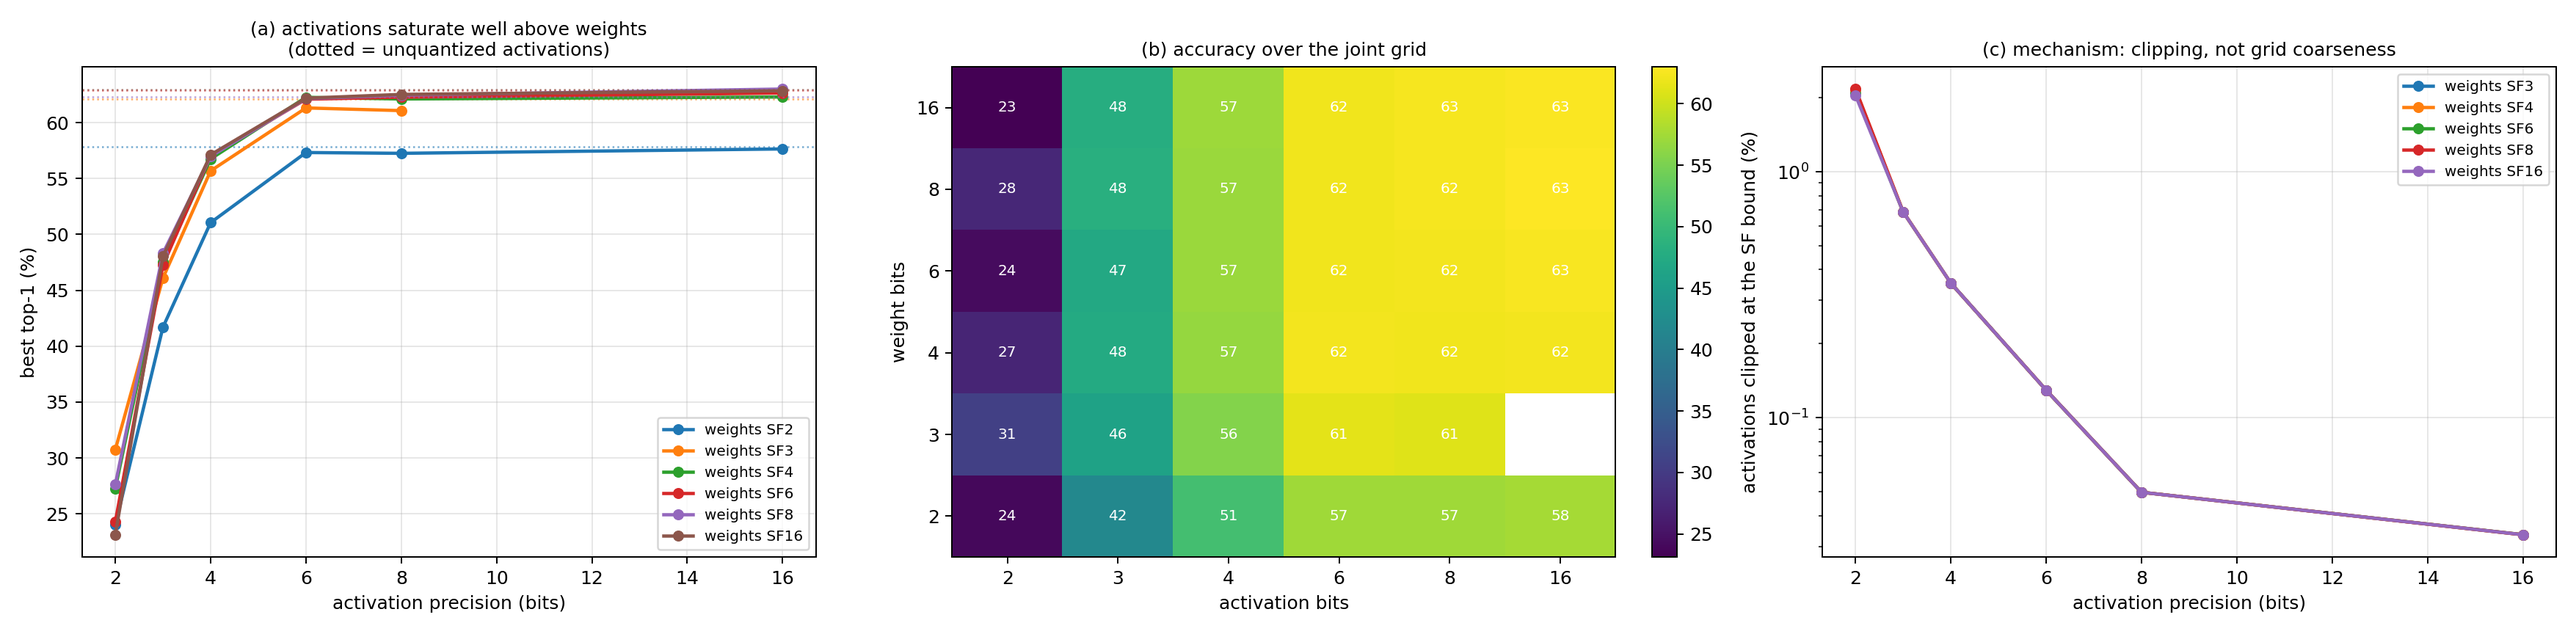
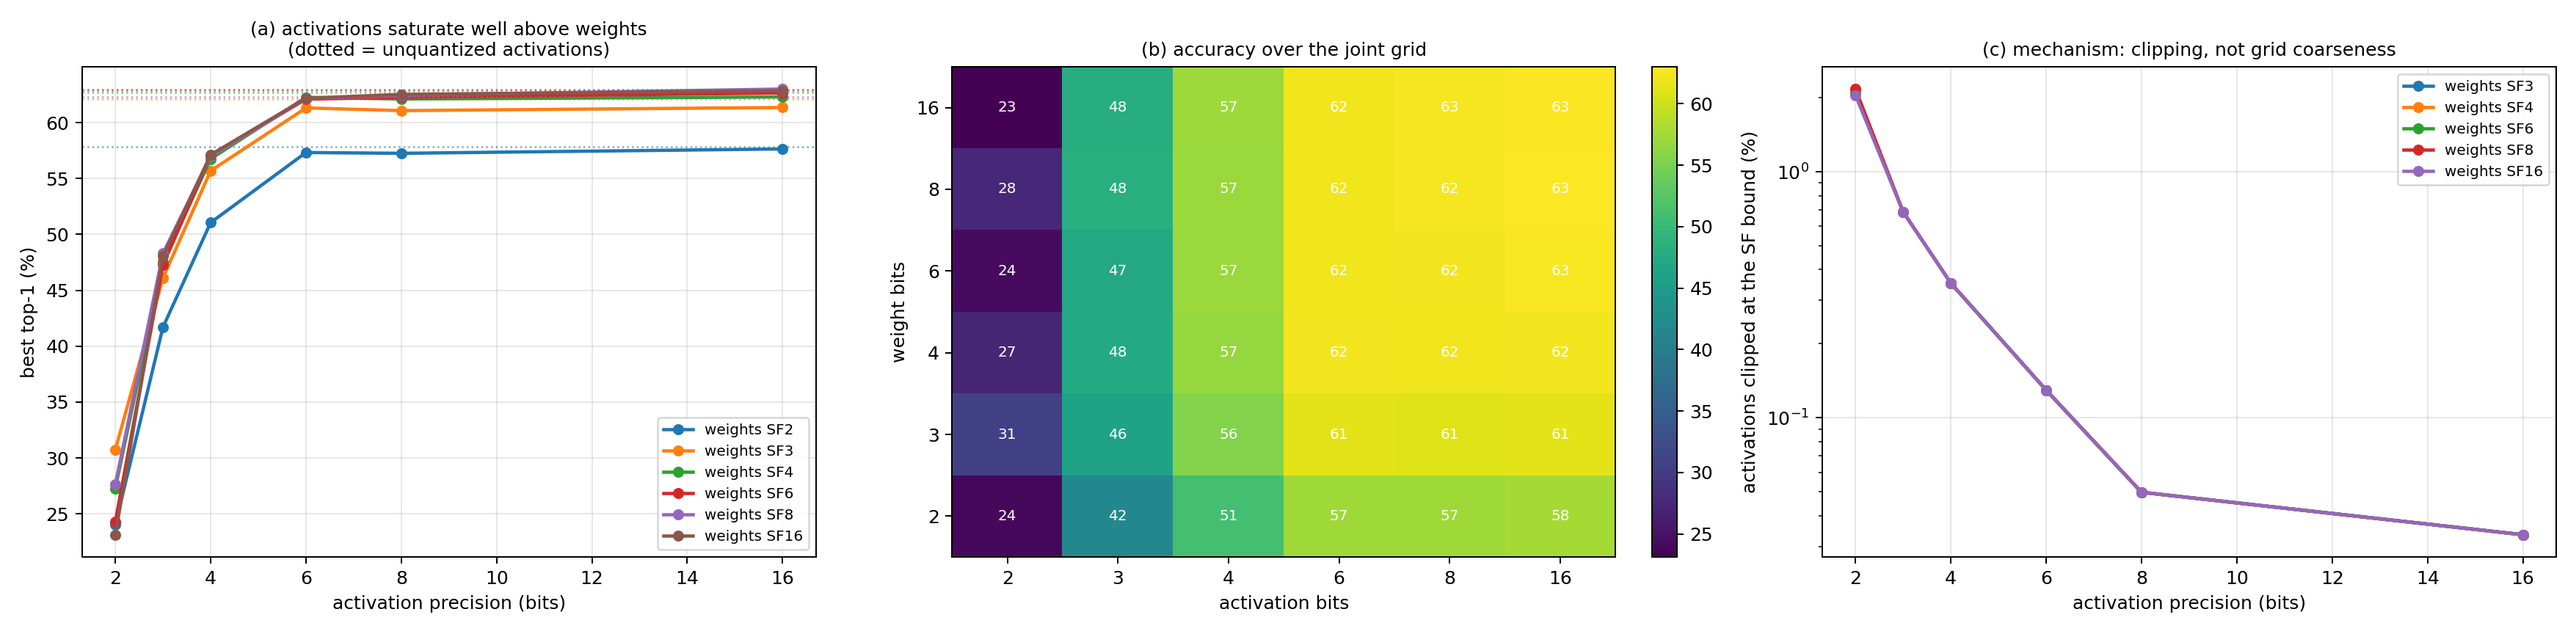
Keep the normalised arm out of the width fit, and finish exp1
analyze_scaling.py located the critical precision p0 by fitting a logistic per
width, excluding smoke runs and head-quantization controls. It did not exclude
the channel-normalised arm, which did not exist when it was written. Pooling
that arm flattens the very knee the fit is trying to find: normalised runs
train fine at SF2, so the logistic sees no collapse.

The contaminated fit read

  slope +0.144 +/- 0.034 bits/doubling, Kaiming +0.50 is 10.5 sigma away
  transition sharpness k spanning 0.80-1.46

and the corrected one reads

  slope +0.292 +/- 0.037 bits/doubling, Kaiming +0.50 is 5.6 sigma away
  transition sharpness k spanning 1.86-3.65

which agrees with make_scaling_figures.py's independent plain-only fit (+0.29)
and reproduces the +1.12 bits over 16x width that section 2.2 reports, as the
endpoint difference 4.26 - 3.14. The prose was right throughout; only this
script had drifted, and it would have shipped a stale figure.

It now also reads the committed JSONL archive, so all three analysis scripts
take the same --results-dir.

exp1 finishes at 42/42: the last two cells fill in w3/a16 = 61.4 and
w4/none = 62.7, neither of which moves the read in 5.1.

Adds the exp7 figure, which draws the plain-SF depth sweep against exp4's
normalised one; it renders once exp7 has rows.

Changed region(s): [[0.559, 0.5938, 0.6521, 0.75], [0.1553, 0.1562, 0.3105, 0.1875]]

diff --git a/benchmarks/make_lab_figures.py b/benchmarks/make_lab_figures.py
@@ -156,21 +156,44 @@ def fig_dn(rows, out):
 
 
 def fig_reg(rows, out):
-    """exp3: does coarse-is-better die as tokens-per-parameter grows?"""
+    """exp3: does coarse-is-better die as tokens-per-parameter grows?
+
+    Tier D found lower precision beating higher under scale absorption. If that
+    inversion is a regularisation effect it should be a small-data artefact:
+    give the model more tokens per parameter and the coarser grid should lose
+    its advantage and then fall behind.
+    """
     if not rows: return None
     g = collections.defaultdict(dict)
     for r in rows: g[r["tpp"]][r["bits"]] = r["final_val_loss"]
-    fig, ax = plt.subplots(figsize=(7.5, 5))
+    fig, ax = plt.subplots(1, 2, figsize=(13.6, 4.8))
     tpps = sorted(g)
+
+    # (a) absolute loss -- needs no control, so it is readable while the sweep
+    # is still filling in
+    for i, b in enumerate([0, 2, 3, 4, 6]):
+        pts = [(t, g[t][b]) for t in tpps if b in g[t]]
+        if pts:
+            ax[0].plot(*zip(*pts), marker="o", ms=6, lw=1.8, color=C[i],
+                       label="FP32" if b == 0 else f"SF{b}")
+    ax[0].set_xscale("log"); ax[0].set_xlabel("tokens per parameter")
+    ax[0].set_ylabel("final val loss (nats)")
+    ax[0].set_title("(a) loss vs data, one curve per precision", fontsize=10)
+    ax[0].legend(fontsize=9); ax[0].grid(alpha=0.3)
+
+    # (b) penalty against each cell's own FP32 control
     for i, b in enumerate([2, 3, 4, 6]):
         pts = [(t, g[t][b] - g[t][0]) for t in tpps if b in g[t] and 0 in g[t]]
-        if pts: ax.plot(*zip(*pts), marker="o", ms=6, lw=1.8, color=C[i], label=f"SF{b}")
-    ax.axhline(0, color="k", lw=0.8, ls=":")
-    ax.set_xscale("log"); ax.set_xlabel("tokens per parameter")
-    ax.set_ylabel("penalty vs FP32 control (nats)")
-    ax.set_title("If coarse-is-better is regularisation, the SF2 line\n"
-                 "should cross above SF4 as data grows", fontsize=10)
-    ax.legend(fontsize=9); ax.grid(alpha=0.3)
+        if pts:
+            ax[1].plot(*zip(*pts), marker="o", ms=6, lw=1.8, color=C[i],
+                       label=f"SF{b}")
+    ax[1].axhline(0, color="k", lw=0.8, ls=":")
+    ax[1].set_xscale("log"); ax[1].set_xlabel("tokens per parameter")
+    ax[1].set_ylabel("penalty vs FP32 control (nats)")
+    ax[1].set_title("(b) if the inversion is regularisation, the gaps\n"
+                    "should widen as data grows", fontsize=10)
+    ax[1].legend(fontsize=9); ax[1].grid(alpha=0.3)
+
     fig.tight_layout(); p = os.path.join(out, "lab_exp3_regularisation.png")
     fig.savefig(p, dpi=180); plt.close(fig); return p
 
@@ -277,17 +300,74 @@ def fig_lr(rows, out):
     fig.savefig(p, dpi=180); plt.close(fig); return p
 
 
+def fig_plain(rows4, rows7, out):
+    """exp7 against exp4: the same depth sweep with and without normalisation.
+
+    exp4 runs the channel-normalised condition, so on its own it cannot speak
+    to the paper's SF16@ResNet-56 seed spread of 12.0 points, which came from a
+    pipeline that had no per-channel scale. exp7 reruns the two precisions that
+    spread was reported at, without normalisation, at three seeds.
+    """
+    if not rows7: return None
+    def bucket(rows):
+        g = collections.defaultdict(list)
+        for r in rows:
+            g[(r["depth"], r["bits_w"])].append(r["best_acc"])
+        return g
+    g4, g7 = bucket(rows4), bucket(rows7)
+    B = sorted({b for _, b in g7})
+    D = sorted({d for d, _ in g7})
+    fig, ax = plt.subplots(1, 2, figsize=(13.6, 4.8))
+
+    for i, b in enumerate(B):
+        for g, ls, lab in ((g4, "-", "+ channel norm"), (g7, "--", "plain SF")):
+            xs = [d for d in D if (d, b) in g]
+            if not xs:
+                continue
+            ys = [np.mean(g[(d, b)]) for d in xs]
+            es = [np.ptp(g[(d, b)]) / 2 if len(g[(d, b)]) > 1 else 0 for d in xs]
+            ax[0].errorbar(xs, ys, yerr=es, marker="o", ms=5, lw=1.8, ls=ls,
+                           capsize=3, color=C[i % len(C)], label=f"SF{b}, {lab}")
+    ax[0].set_xlabel("depth"); ax[0].set_ylabel("best top-1 (%)")
+    ax[0].set_title("(a) accuracy vs depth, with and without normalisation",
+                    fontsize=10)
+    ax[0].legend(fontsize=8); ax[0].grid(alpha=0.3)
+
+    for i, b in enumerate(B):
+        for g, ls, lab in ((g4, "-", "+ channel norm"), (g7, "--", "plain SF")):
+            xs = [d for d in D if (d, b) in g and len(g[(d, b)]) > 1]
+            if not xs:
+                continue
+            ax[1].plot(xs, [np.ptp(g[(d, b)]) for d in xs], marker="o", ms=5,
+                       lw=1.8, ls=ls, color=C[i % len(C)], label=f"SF{b}, {lab}")
+    ax[1].axhline(12.0, color="#d62728", lw=1.6, ls=":")
+    ax[1].text(0.02, 12.3, "spread reported in the paper (SF16 @ ResNet-56)",
+               fontsize=8, color="#d62728", transform=ax[1].get_yaxis_transform())
+    ax[1].set_xlabel("depth"); ax[1].set_ylabel("seed spread (pp)")
+    ax[1].set_title("(b) does the reported instability reproduce?", fontsize=10)
+    ax[1].legend(fontsize=8, loc="upper left"); ax[1].grid(alpha=0.3)
+
+    fig.tight_layout(); p = os.path.join(out, "lab_exp7_plain_depth.png")
+    fig.savefig(p, dpi=180); plt.close(fig); return p
+
+
 def main():
     ap = argparse.ArgumentParser()
     ap.add_argument("--results-dir", default="."); ap.add_argument("--out", default="figures")
     a = ap.parse_args(); os.makedirs(a.out, exist_ok=True)
     made = []
+    got = {}
     for exp, fn in (("exp1", fig_act), ("exp2", fig_dn), ("exp3", fig_reg),
                     ("exp4", fig_depth), ("exp5_profile", fig_alloc), ("exp6", fig_lr)):
         rows = load(a.results_dir, exp)
+        got[exp] = rows
         print(f"  {exp}: {len(rows)} rows")
         p = fn(rows, a.out)
         if p: made.append(p)
+    rows7 = load(a.results_dir, "exp7")
+    print(f"  exp7: {len(rows7)} rows")
+    p = fig_plain(got.get("exp4", []), rows7, a.out)
+    if p: made.append(p)
     for p in made: print("  " + p)
 
 

diff --git a/benchmarks/analyze_scaling.py b/benchmarks/analyze_scaling.py
@@ -55,17 +55,36 @@ def logistic(p, A, k, p0):
     return A / (1.0 + np.exp(-k * (p - p0)))
 
 
+def _rows(results_dir, tier):
+    """Tier records from `scaling_<tier>.jsonl` or a runs_scaling_<tier>/ dir."""
+    arch = os.path.join(results_dir, f"scaling_{tier}.jsonl")
+    if os.path.exists(arch):
+        with open(arch) as f:
+            return [json.loads(l) for l in f if l.strip()]
+    out = []
+    for fn in glob.glob(os.path.join(results_dir, f"runs_scaling_{tier}", "*.json")):
+        if "_fp16head" in fn:
+            continue
+        out.append(json.load(open(fn)))
+    return out
+
+
 def load_c(results_dir):
     """Tier C records, keyed (width_mult, bits) -> list over seeds."""
     by = collections.defaultdict(list)
-    for f in glob.glob(os.path.join(results_dir, "runs_scaling_c", "*.json")):
-        r = json.load(open(f))
+    for r in _rows(results_dir, "c"):
         # smoke runs share tags with real ones; length is the only honest check
         if len(r.get("history", [])) < MIN_EPOCHS:
             continue
         # head-quantization controls are a different condition and must not be
         # pooled into the main fit
         if r.get("quantize_head"):
+            continue
+        # nor may the channel-normalised arm.  It was added to tier C after
+        # this analysis was written, and pooling it flattens the knee it is
+        # trying to locate: normalised runs train at SF2, so the logistic sees
+        # no collapse and the fitted slope drops from +0.29 to +0.14.
+        if r.get("channel_norm"):
             continue
         by[(r["width_mult"], r["bits"])].append(r)
     return by
@@ -156,12 +175,7 @@ def figure(by, fits, slope, intercept, se, outdir):
 # ------------------------------------------------------- tiers A and B -----
 def load_ab(results_dir, tier):
     """Tier A (QAT) or B (PTQ) records. bits=0 is that row's control."""
-    out = []
-    for f in glob.glob(os.path.join(results_dir, f"runs_scaling_{tier}", "*.json")):
-        if "_fp16head" in f:          # coverage control, not part of the sweep
-            continue
-        out.append(json.load(open(f)))
-    return out
+    return _rows(results_dir, tier)   # "_fp16head" coverage controls dropped there
 
 
 def _penalty_table(rows, key_size, key_loss, step=None):

diff --git a/SCALING_LAWS.md b/SCALING_LAWS.md
@@ -363,13 +363,13 @@ weights they report are exact SF grid values at inference.
 ### 5.1 Activations, not weights, are the binding constraint
 
 Everything so far quantized weights only. Sweeping weight and activation
-precision jointly, 42 cells, best top-1:
+precision jointly over the full 42-cell grid, best top-1:
 
 | w \ a | a2 | a3 | a4 | a6 | a8 | a16 | none |
 | --- | --- | --- | --- | --- | --- | --- | --- |
 | SF2 | 24.0 | 41.7 | 51.1 | 57.3 | 57.3 | 57.6 | 57.9 |
-| SF3 | 30.7 | 46.1 | 55.7 | 61.3 | 61.1 | -- | 62.1 |
-| SF4 | 27.3 | 47.5 | 56.8 | 62.3 | 62.1 | 62.3 | -- |
+| SF3 | 30.7 | 46.1 | 55.7 | 61.3 | 61.1 | 61.4 | 62.1 |
+| SF4 | 27.3 | 47.5 | 56.8 | 62.3 | 62.1 | 62.3 | 62.7 |
 | SF6 | 24.3 | 47.3 | 57.0 | 62.1 | 62.3 | 62.6 | 62.9 |
 | SF8 | 27.6 | 48.3 | 57.0 | 62.1 | 62.5 | 63.0 | 62.3 |
 | SF16 | 23.1 | 48.0 | 57.1 | 62.2 | 62.5 | 62.8 | 62.9 |
@@ -493,8 +493,19 @@ format.
   at one architecture and one size.
 - **PTQ under scale absorption** was never run. Given SF4 PTQ destroys every
   model tested, it is the obvious next experiment.
-- **Activation quantization** is out of scope throughout; the V-JEPA
-  measurement in [SUPERFLOAT_RESULTS.md](SUPERFLOAT_RESULTS.md) shows why.
+- **Activation quantization** is out of scope for the four tiers; 5.1 measures
+  it directly on CIFAR-100, and the V-JEPA measurement in
+  [SUPERFLOAT_RESULTS.md](SUPERFLOAT_RESULTS.md) shows why it matters.
+- **The follow-ups of 5.1, 5.2, 5.3 are CIFAR-100 ResNets only.** The
+  weight/activation asymmetry is the one most likely to be architecture
+  specific: it rests on activations being one-sided and heavy-tailed after
+  ReLU, and a transformer's post-GELU and residual-stream activations are
+  differently shaped. It is untested there.
+- **The learning-rate result is measured on 12-epoch runs.** Short runs are
+  enough to expose divergence, which is what was being looked for, but a
+  configuration that survives 12 epochs at 6e-2 could still fail over 60. The
+  claim is that no precision-dependent stability boundary exists in this
+  window, not that any of these learning rates is a good idea.
 - **Half-Chinchilla token budget** (10 tokens/param). Relative degradation at
   matched (N, D) is unaffected, but absolute losses are not compute-optimal.
 - **Embedding init** uses PyTorch's default N(0,1) rather than GPT-2's
